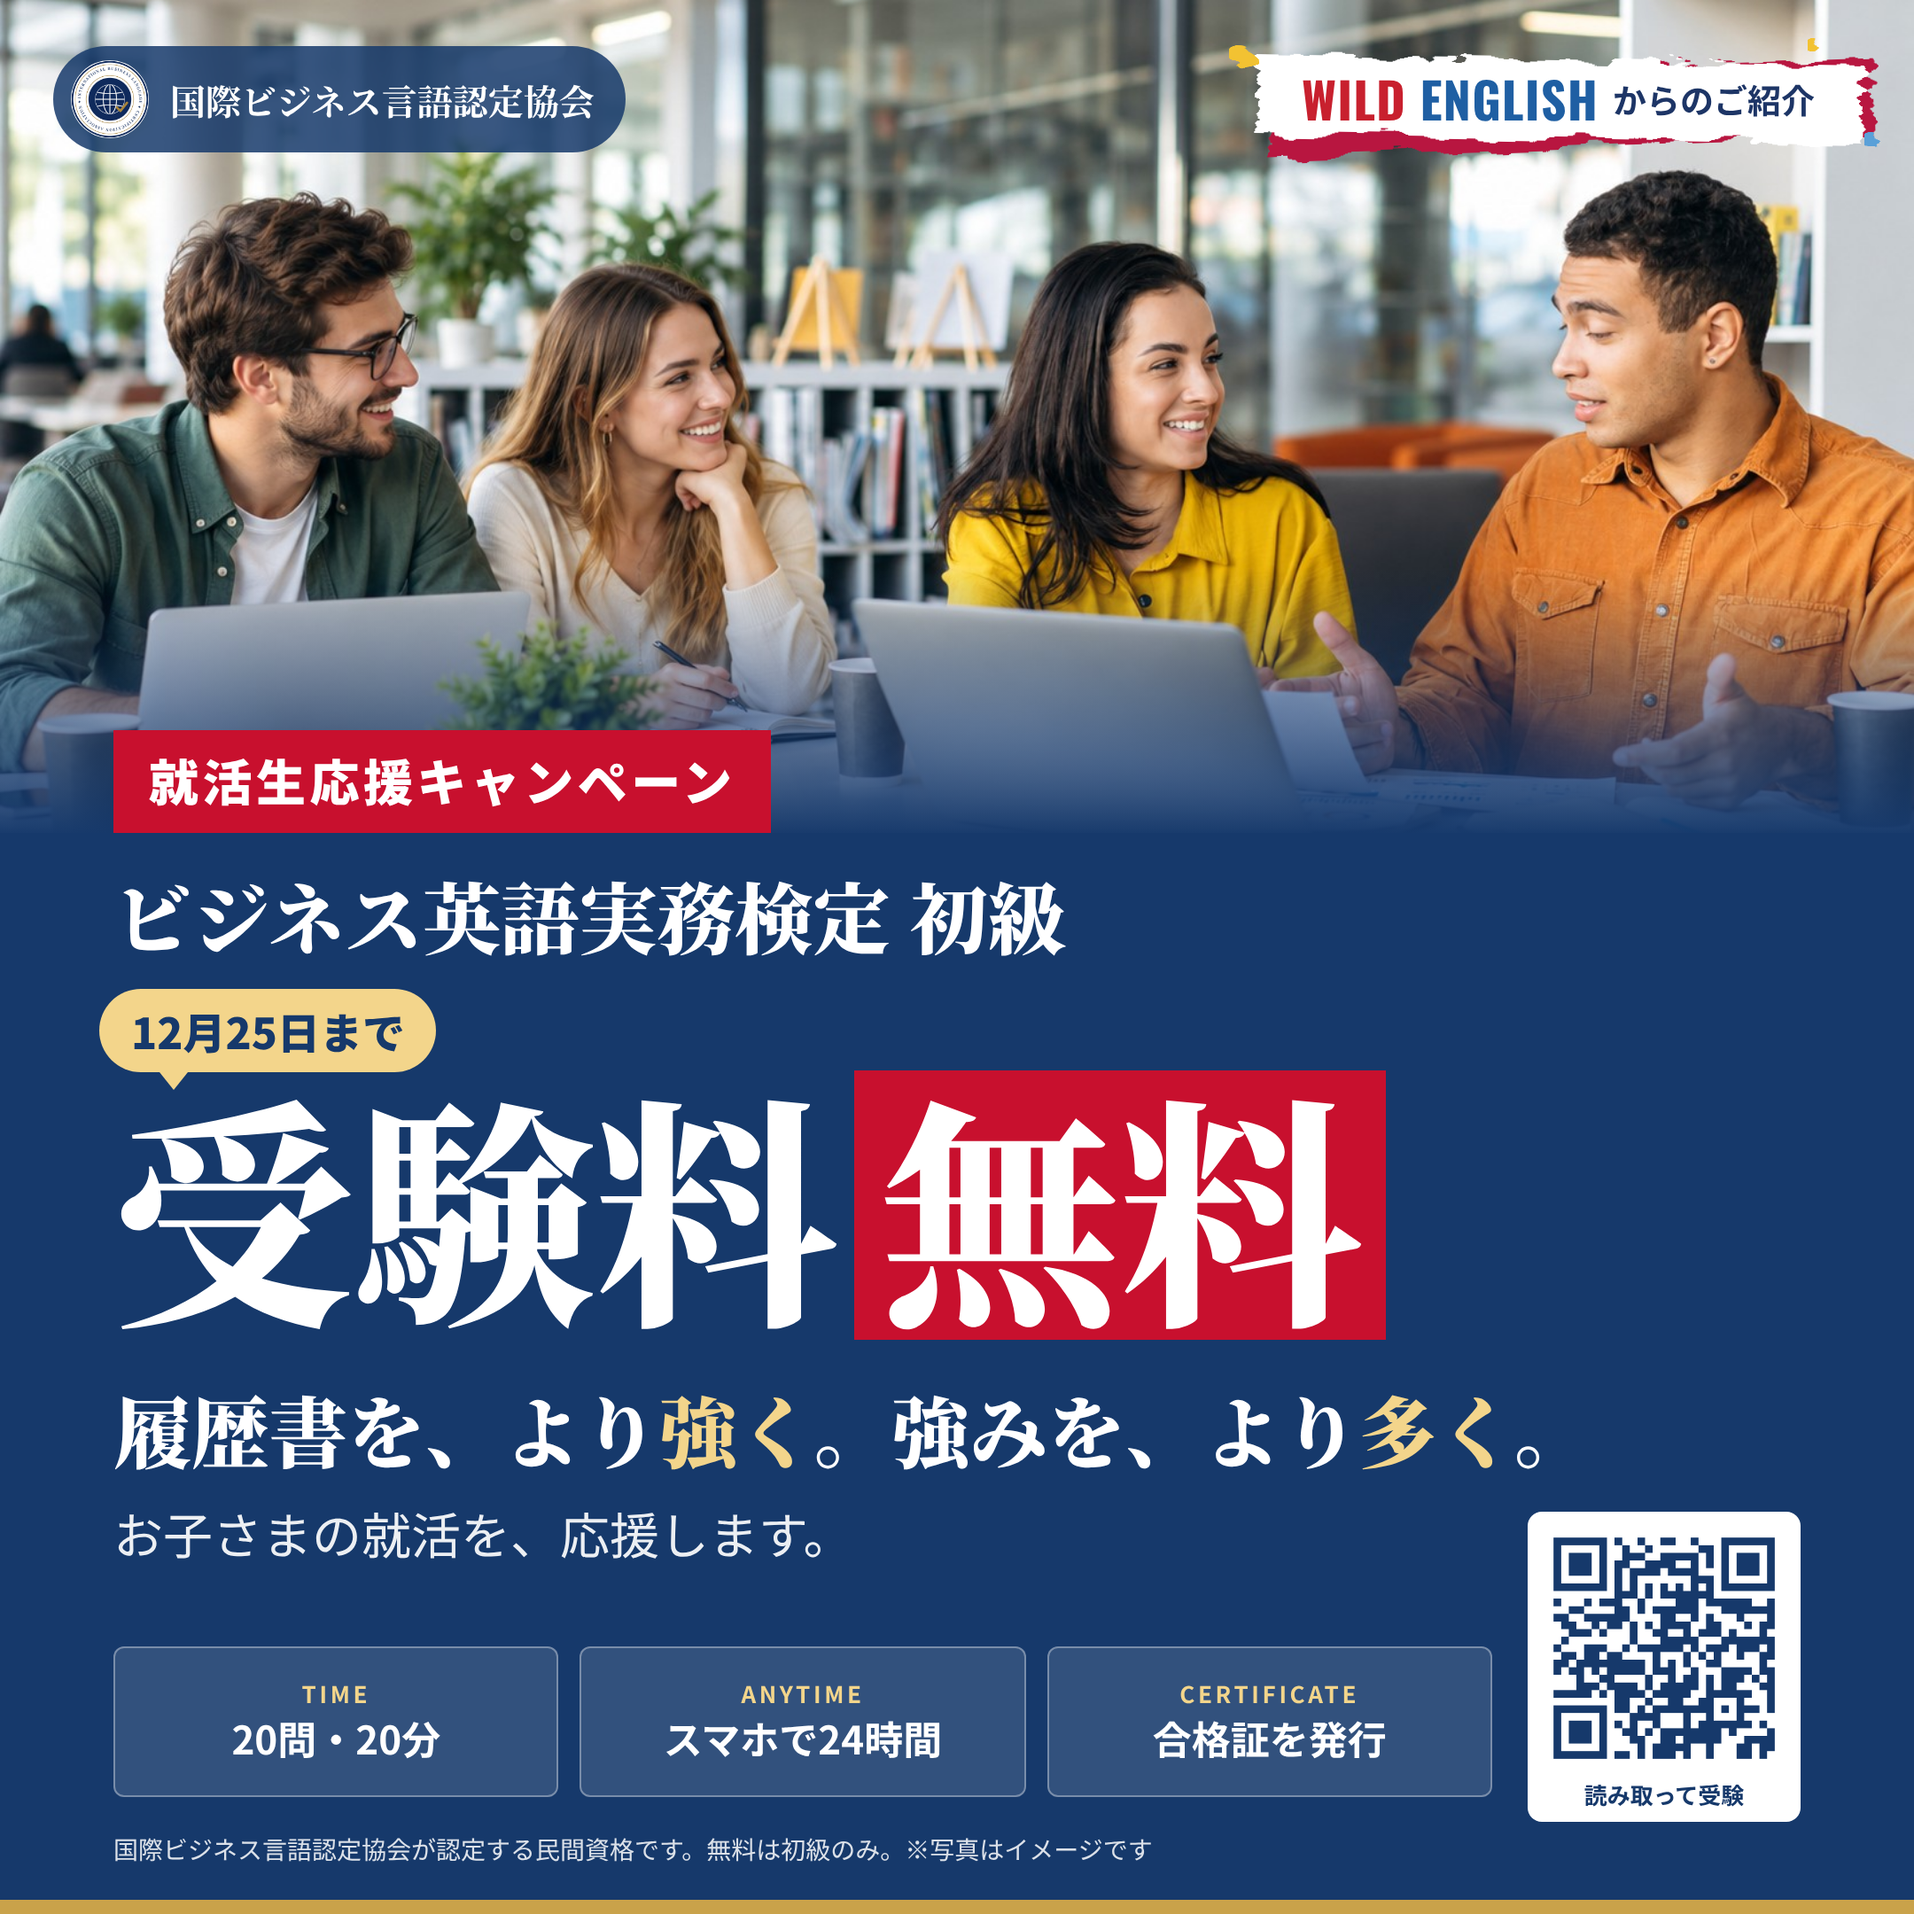
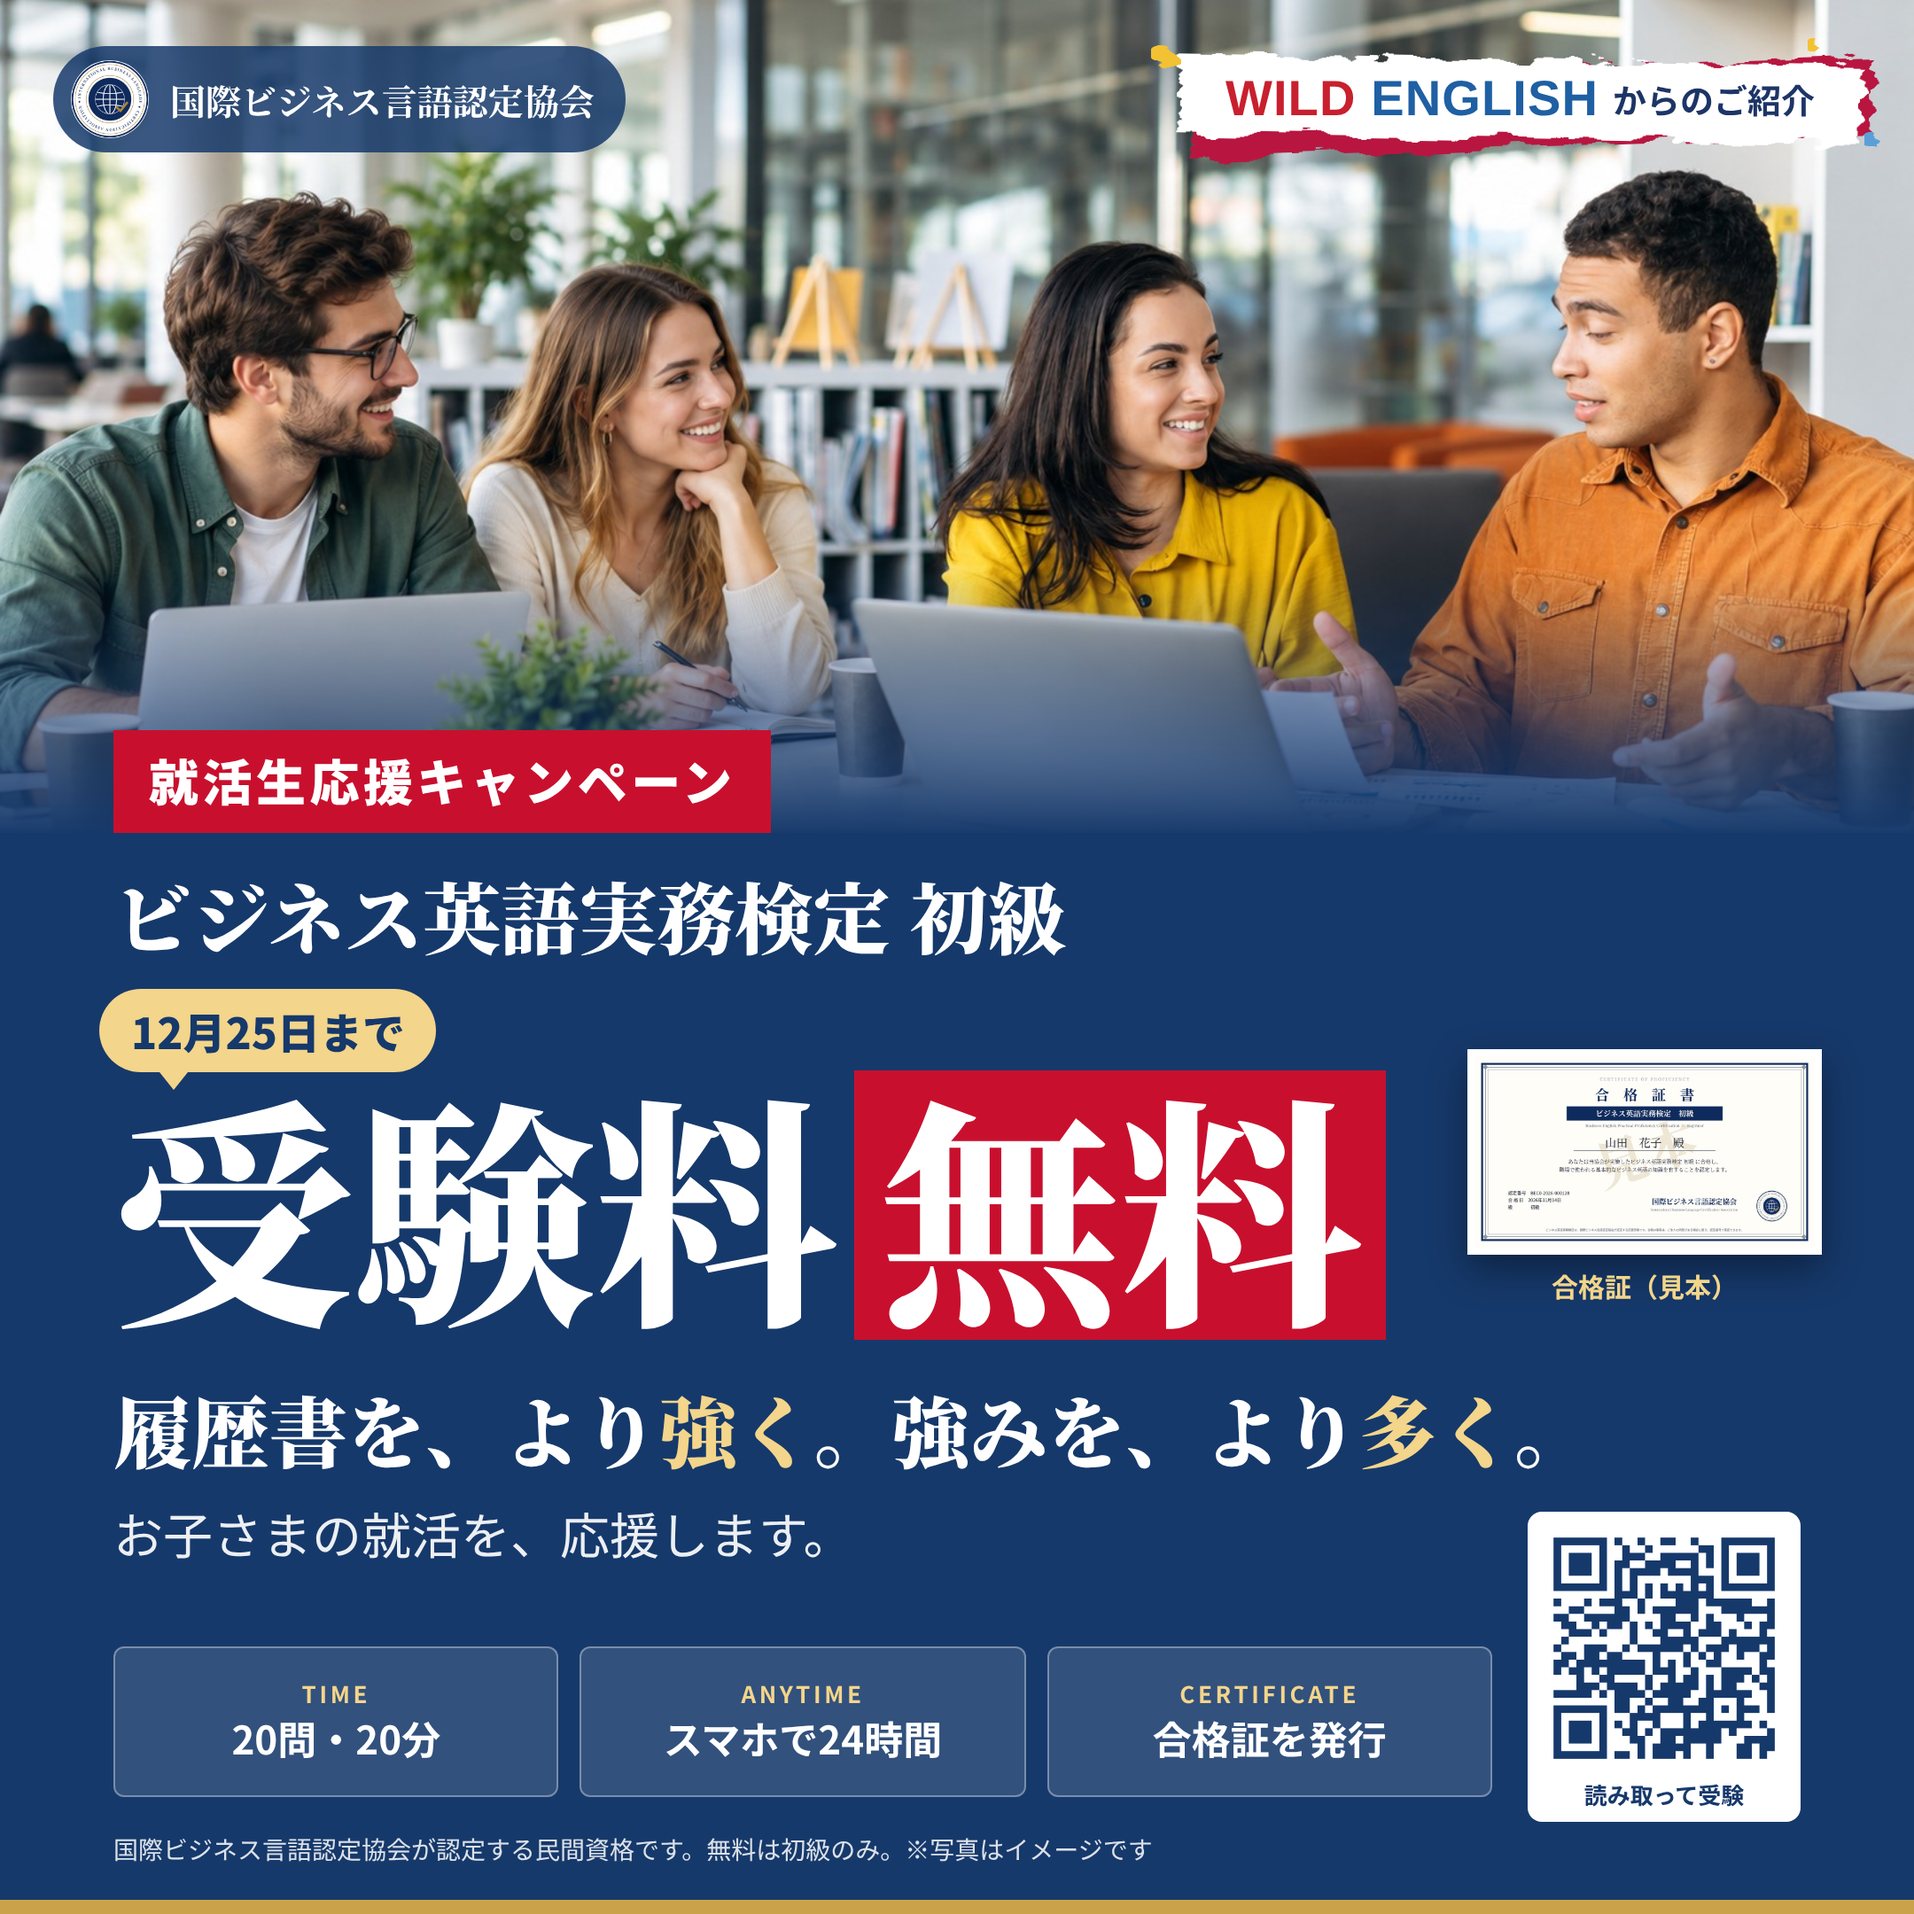
FB広告（正方形）：空いたところに合格証の見本
Claude-Session: https://claude.ai/code/session_01T3NaLWbuuvRT9b8SoudneK

Changed region(s): [[0.7444, 0.5273, 0.9616, 0.6824], [0.5894, 0.0, 0.8375, 0.0931], [0.9616, 0.031, 0.9926, 0.062]]

diff --git a/assets/本陣へ/fb_src/combo_1080.html b/assets/本陣へ/fb_src/combo_1080.html
@@ -37,6 +37,9 @@ body{width:1080px;height:1080px;position:relative;overflow:hidden;font-family:"N
 .pr .dot{position:absolute;border-radius:50%;z-index:-1;filter:url(#paint)}
 .pr b{font-family:"Oswald",sans-serif;font-weight:700;font-size:28px;letter-spacing:.02em;line-height:1}
 .pr b i{font-style:normal;color:#c8202e}.pr b u{text-decoration:none;color:#1f5fa3}
+.cert{position:absolute;right:52px;top:592px;width:200px;text-align:center}
+.cert img{display:block;width:100%;border:4px solid #fff;box-shadow:0 8px 20px rgba(0,0,0,.4)}
+.cert span{display:block;margin-top:8px;font-size:15px;font-weight:700;color:var(--gold)}
 </style></head><body><svg width="0" height="0" style="position:absolute"><filter id="paint" x="-10%" y="-30%" width="120%" height="160%"><feTurbulence type="fractalNoise" baseFrequency="0.035 0.12" numOctaves="3" seed="4" result="n"/><feDisplacementMap in="SourceGraphic" in2="n" scale="16" xChannelSelector="R" yChannelSelector="G"/></filter></svg>
 <div class="photo"></div><div class="fade"></div>
 <div class="top"><div class="org"><img src="logo.png"><b>国際ビジネス言語認定協会</b></div><div class="pr"><span class="s1"></span><span class="s2"></span><span class="dot" style="width:14px;height:14px;background:#f2c230;left:-14px;top:-8px"></span><span class="dot" style="width:9px;height:9px;background:#5aa0d8;right:-12px;bottom:-6px"></span><span class="dot" style="width:7px;height:7px;background:#f2c230;right:22px;top:-12px"></span><b><i>WILD</i> <u>ENGLISH</u></b>からのご紹介</div></div>
@@ -47,6 +50,7 @@ body{width:1080px;height:1080px;position:relative;overflow:hidden;font-family:"N
 <div class="flag">履歴書を、より<em>強く</em>。強みを、より<em>多く</em>。</div>
 <div class="parent">お子さまの就活を、応援します。</div>
 </div>
+<div class="cert"><img src="cert.jpg"><span>合格証（見本）</span></div>
 <div class="facts"><div class="fact"><b>TIME</b><span>20問・20分</span></div><div class="fact"><b>ANYTIME</b><span>スマホで24時間</span></div><div class="fact"><b>CERTIFICATE</b><span>合格証を発行</span></div></div>
 <div class="qrw"><img src="qr_we.png"><span>読み取って受験</span></div>
 <div class="note">国際ビジネス言語認定協会が認定する民間資格です。無料は初級のみ。※写真はイメージです</div>
